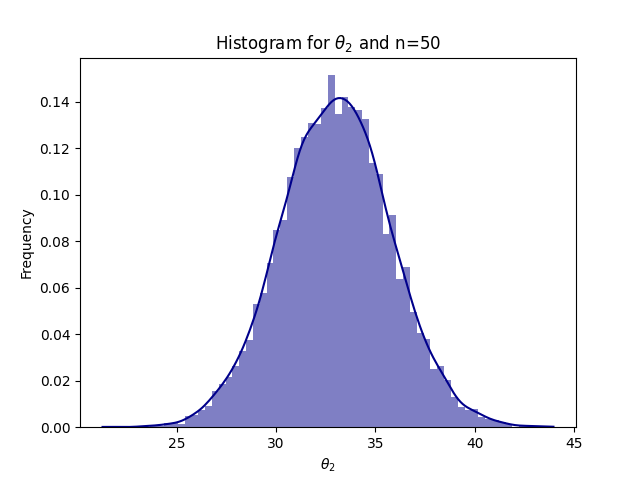
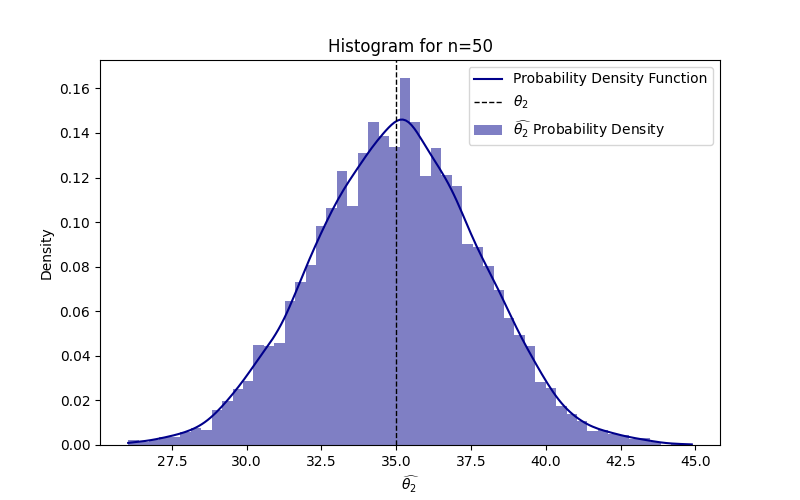
analysis of results completed

diff --git a/quiz1.py b/quiz1.py
@@ -6,38 +6,56 @@ import matplotlib.pyplot as plt
 from sklearn.utils import resample
 
 theta = 34 #parametro
-n_space = [50, 100, 1000]#tamanos de muestra
+poblacion = [x for x in range(1,theta+1)]
 
+theta_1 = max(poblacion)
+theta_2 = 2*np.mean(poblacion)
+
+mse_1, mse_2 = [], []
+
+n_space = [50, 100, 1000]#tamanos de muestra
 for n in n_space:
     vec_theta_1 = []
     vec_theta_2 = []
     for i in range(10000):
-        poblacion = [x for x in range(theta)]
         samples = resample(poblacion, n_samples=n, replace=True)#seleccion de muestra
         #calcular estimadores
-        theta_1 = max(samples)
-        theta_2 = 2 * np.mean(samples)
-        vec_theta_1.append(theta_1)
-        vec_theta_2.append(theta_2)
+        theta_1_hat = max(samples)
+        theta_2_hat = 2 * np.mean(samples)
+        vec_theta_1.append(theta_1_hat)
+        vec_theta_2.append(theta_2_hat)
+
+    #Calculo de MSE para la muestra
+    esper_theta_1 = np.mean(vec_theta_1)
+    var_theta_1 = np.var(vec_theta_1)
+    mse_theta_1 =  var_theta_1 + ((esper_theta_1 - theta_1)**2)
+    mse_1.append(mse_theta_1)
+
+    esper_theta_2 = np.mean(vec_theta_2)
+    var_theta_2 = np.var(vec_theta_2)
+    mse_theta_2 =  var_theta_2 + ((esper_theta_2 - theta_2)**2)
+    mse_2.append(mse_theta_2)
 
     #Generar histogramas
     plt.clf()
+    plt.figure(figsize=(6,5))
     plt.hist(vec_theta_1)
-    plt.title("Histogram for $\\theta_1$ and n={}".format(n))
+    plt.axvline(theta_1, color='k', linestyle='dashed', linewidth=1, label='$\\theta_1$')
+    plt.title(f'Histogram for n={n}')
     plt.ylabel("Frequency")
-    plt.xlabel("$\\theta_1$")
+    plt.xlabel("$\\widehat{\\theta_1}$")
+    plt.legend()
     plt.savefig(f"theta1_n{n}.png")
 
     plt.clf()
+    plt.figure(figsize=(8,5))
     sns.histplot(vec_theta_2, kde=True, stat="density", linewidth=0, color='darkblue')
-    plt.title("Histogram for $\\theta_2$ and n={}".format(n))
-    plt.ylabel("Frequency")
-    plt.xlabel("$\\theta_2$")
+    plt.axvline(theta_2, color='k', linestyle='dashed', linewidth=1)
+    plt.title(f'Histogram for n={n}')
+    plt.ylabel("Density")
+    plt.xlabel("$\\widehat{\\theta_2}$")
+    plt.legend(labels=['Probability Density Function','$\\theta_2$', '$\\widehat{\\theta_2}$ Probability Density'])
     plt.savefig(f"theta2_n{n}.png")
 
-
-"""
-Comentarios de los resultados obtenidos:
-
-
-"""
+for i in range(len(n_space)):
+  print(f'Para tamano de muestra n={n_space[i]}: MSE theta_1 = {mse_1[i]}, MSE theta_2 = {mse_2[i]}')
